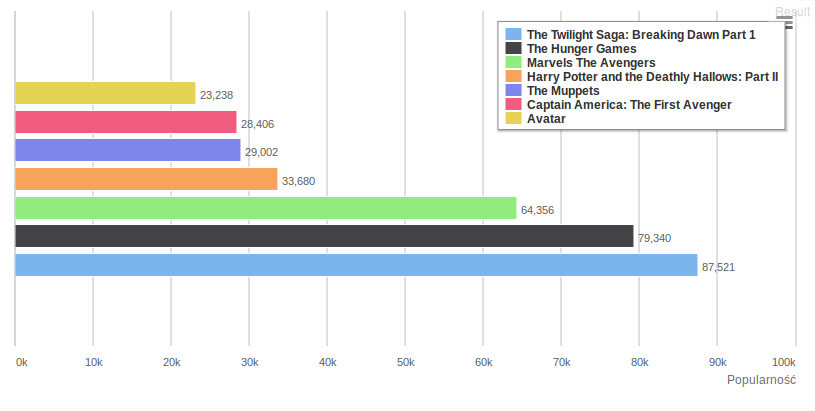
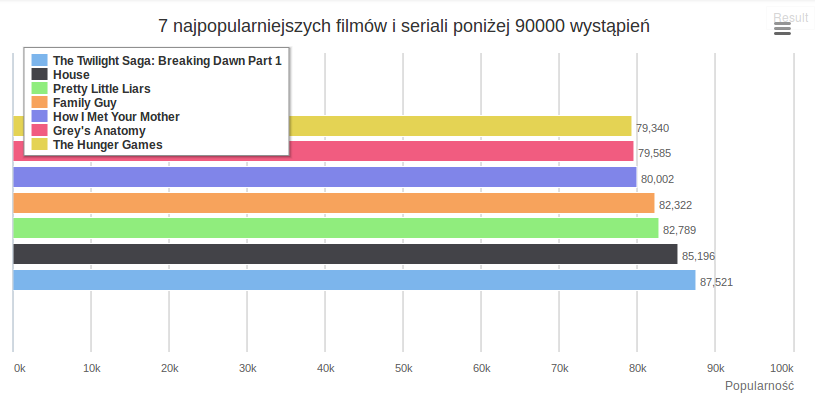
fixed 1st aggregation

diff --git a/agg1.js b/agg1.js
@@ -1,14 +1,16 @@
 var connection = new Mongo();
 var db = connection.getDB('getglue');
 
-var match = { $match: {"modelName": "movies" || "tv_shows"} };
+var match1 = { $match: {$or: [{"modelName": "movies"}, {"modelName": "tv_shows"}]} };
 var group = { $group: {"_id": "$title", "total": {$sum: 1}} };
+var match2 = { $match: {"total": {$lt: 90000}} };
 var sort = { $sort: {"total": -1} };
 var limit = { $limit : 7};
 
 var results = db.gg.aggregate(
-	match,
+	match1,
 	group,
+	match2,
 	sort,
 	limit
 );

diff --git a/agg1.php b/agg1.php
@@ -1,26 +1,18 @@
 <?php
 
-$connection = new MongoClient;
-$collection = $connection -> selectDB("getglue") -> selectCollection("gg");
+   $connection = new MongoClient;
+   $collection = $connection -> selectDB("getglue") -> selectCollection("gg");
+   MongoCursor::$timeout = -1;
 
-$out = $collection -> aggregate(
-   array(
-      '$group' => array(
-         '_id' => '$title',
-         'total' => array('$sum' => 1)
-      )
-   ),
-   array(
-      '$match' => array('modelName' => array('$or' => array('modelName' => 'movies', 'modelName' => 'tv_shows')))
-   ),
-   array(
-   	'sort' => array('$total' => -1)
-   ),
-   array(
-   	'limit' => 7
-   )
-);
+   $match1 = array('$match' => array('$or' => array(array('modelName' => 'movies'), array('modelName' => 'tv_shows'))));
+   $group = array('$group' => array('_id' => '$title', 'total' => array('$sum' => 1)));
+   $match2 = array('$match' => array('total' => array('$lt' => 90000)));
+   $sort = array('$sort' => array('total' => -1));
+   $limit = array('$limit' => 7);
+   $pipeline = array($match1, $group, $match2, $sort, $limit);
 
-echo json_encode($out);
+   $out = $collection -> aggregate($pipeline);
+
+   echo json_encode($out, JSON_PRETTY_PRINT);
 
 ?>

diff --git a/README.md b/README.md
@@ -20,40 +20,33 @@ sys     0m 59.588s
 ```
 
 #Agregacja 1
-7 najpopularniejszych filmów i seriali<br>
+7 najpopularniejszych filmów i seriali poniżej 90000 wystąpień<br>
 [JS](https://github.com/psynowczyk/tnosql2/blob/master/agg1.js)
 ```js
-var match = { $match: {"modelName": "movies" || "tv_shows"} };
+var match1 = { $match: {$or: [{"modelName": "movies"}, {"modelName": "tv_shows"}]} };
 var group = { $group: {"_id": "$title", "total": {$sum: 1}} };
+var match2 = { $match: {"total": {$lt: 90000}} };
 var sort = { $sort: {"total": -1} };
 var limit = { $limit : 7};
 
 var results = db.gg.aggregate(
-	match,
+	match1,
 	group,
+	match2,
 	sort,
 	limit
 );
 ```
 [PHP](https://github.com/psynowczyk/tnosql2/blob/master/agg1.php)
 ```php
-$out = $collection -> aggregate(
-   array(
-      '$group' => array(
-         '_id' => '$title',
-         'total' => array('$sum' => 1)
-      )
-   ),
-   array(
-      '$match' => array('modelName' => array('$or' => array('modelName' => 'movies', 'modelName' => 'tv_shows')))
-   ),
-   array(
-   	'sort' => array('$total' => -1)
-   ),
-   array(
-   	'limit' => 7
-   )
-);
+$match1 = array('$match' => array('$or' => array(array('modelName' => 'movies'), array('modelName' => 'tv_shows'))));
+$group = array('$group' => array('_id' => '$title', 'total' => array('$sum' => 1)));
+$match2 = array('$match' => array('total' => array('$lt' => 90000)));
+$sort = array('$sort' => array('total' => -1));
+$limit = array('$limit' => 7);
+$pipeline = array($match1, $group, $match2, $sort, $limit);
+
+$out = $collection -> aggregate($pipeline);
 ```
 Wynik
 ```js
@@ -64,28 +57,28 @@ Wynik
 			"total" : 87521
 		},
 		{
+			"_id" : "House",
+			"total" : 85196
+		},
+		{
+			"_id" : "Pretty Little Liars",
+			"total" : 82789
+		},
+		{
+			"_id" : "Family Guy",
+			"total" : 82322
+		},
+		{
+			"_id" : "How I Met Your Mother",
+			"total" : 80002
+		},
+		{
+			"_id" : "Grey's Anatomy",
+			"total" : 79585
+		},
+		{
 			"_id" : "The Hunger Games",
 			"total" : 79340
-		},
-		{
-			"_id" : "Marvel's The Avengers",
-			"total" : 64356
-		},
-		{
-			"_id" : "Harry Potter and the Deathly Hallows: Part II",
-			"total" : 33680
-		},
-		{
-			"_id" : "The Muppets",
-			"total" : 29002
-		},
-		{
-			"_id" : "Captain America: The First Avenger",
-			"total" : 28406
-		},
-		{
-			"_id" : "Avatar",
-			"total" : 23238
 		}
 	],
 	"ok" : 1
@@ -94,12 +87,12 @@ Wynik
 | Tytuł                                         | Popularność |
 |-----------------------------------------------|-------------|
 | The Twilight Saga: Breaking Dawn Part 1       | 87521       |
+| House                                         | 85196       |
+| Pretty Little Liars                           | 82789       |
+| Family Guy                                    | 82322       |
+| How I Met Your Mother                         | 80002       |
+| Grey's Anatomy                                | 79585       |
 | The Hunger Games                              | 79340       |
-| Marvel's The Avengers                         | 64356       |
-| Harry Potter and the Deathly Hallows: Part II | 33680       |
-| The Muppets                                   | 29002       |
-| Captain America: The First Avenger            | 28406       |
-| Avatar                                        | 23238       |
 ![alt text](https://github.com/psynowczyk/tnosql2/blob/master/img1.png "")
 
 #Agregacja 2
